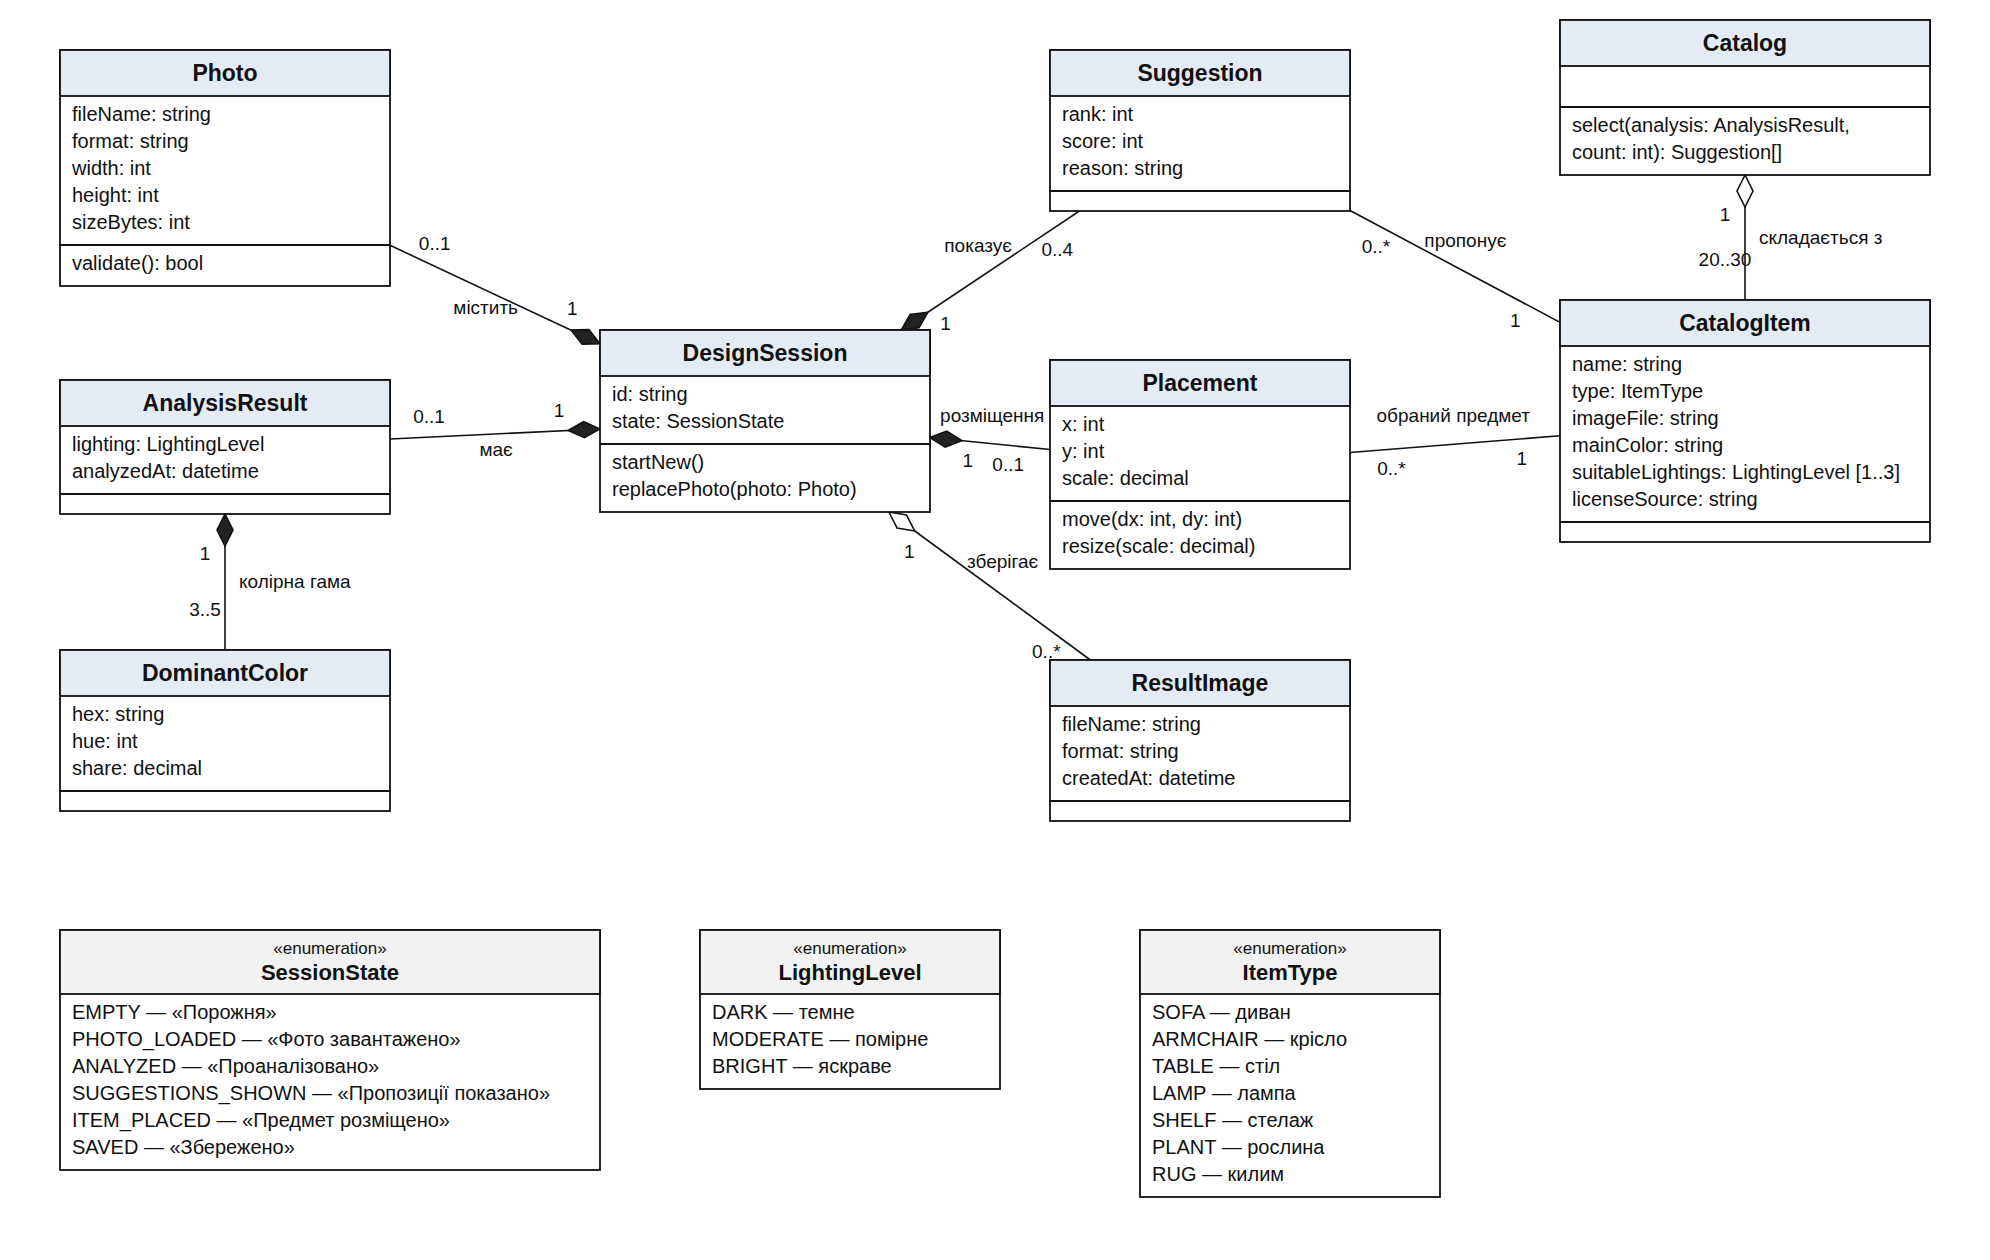
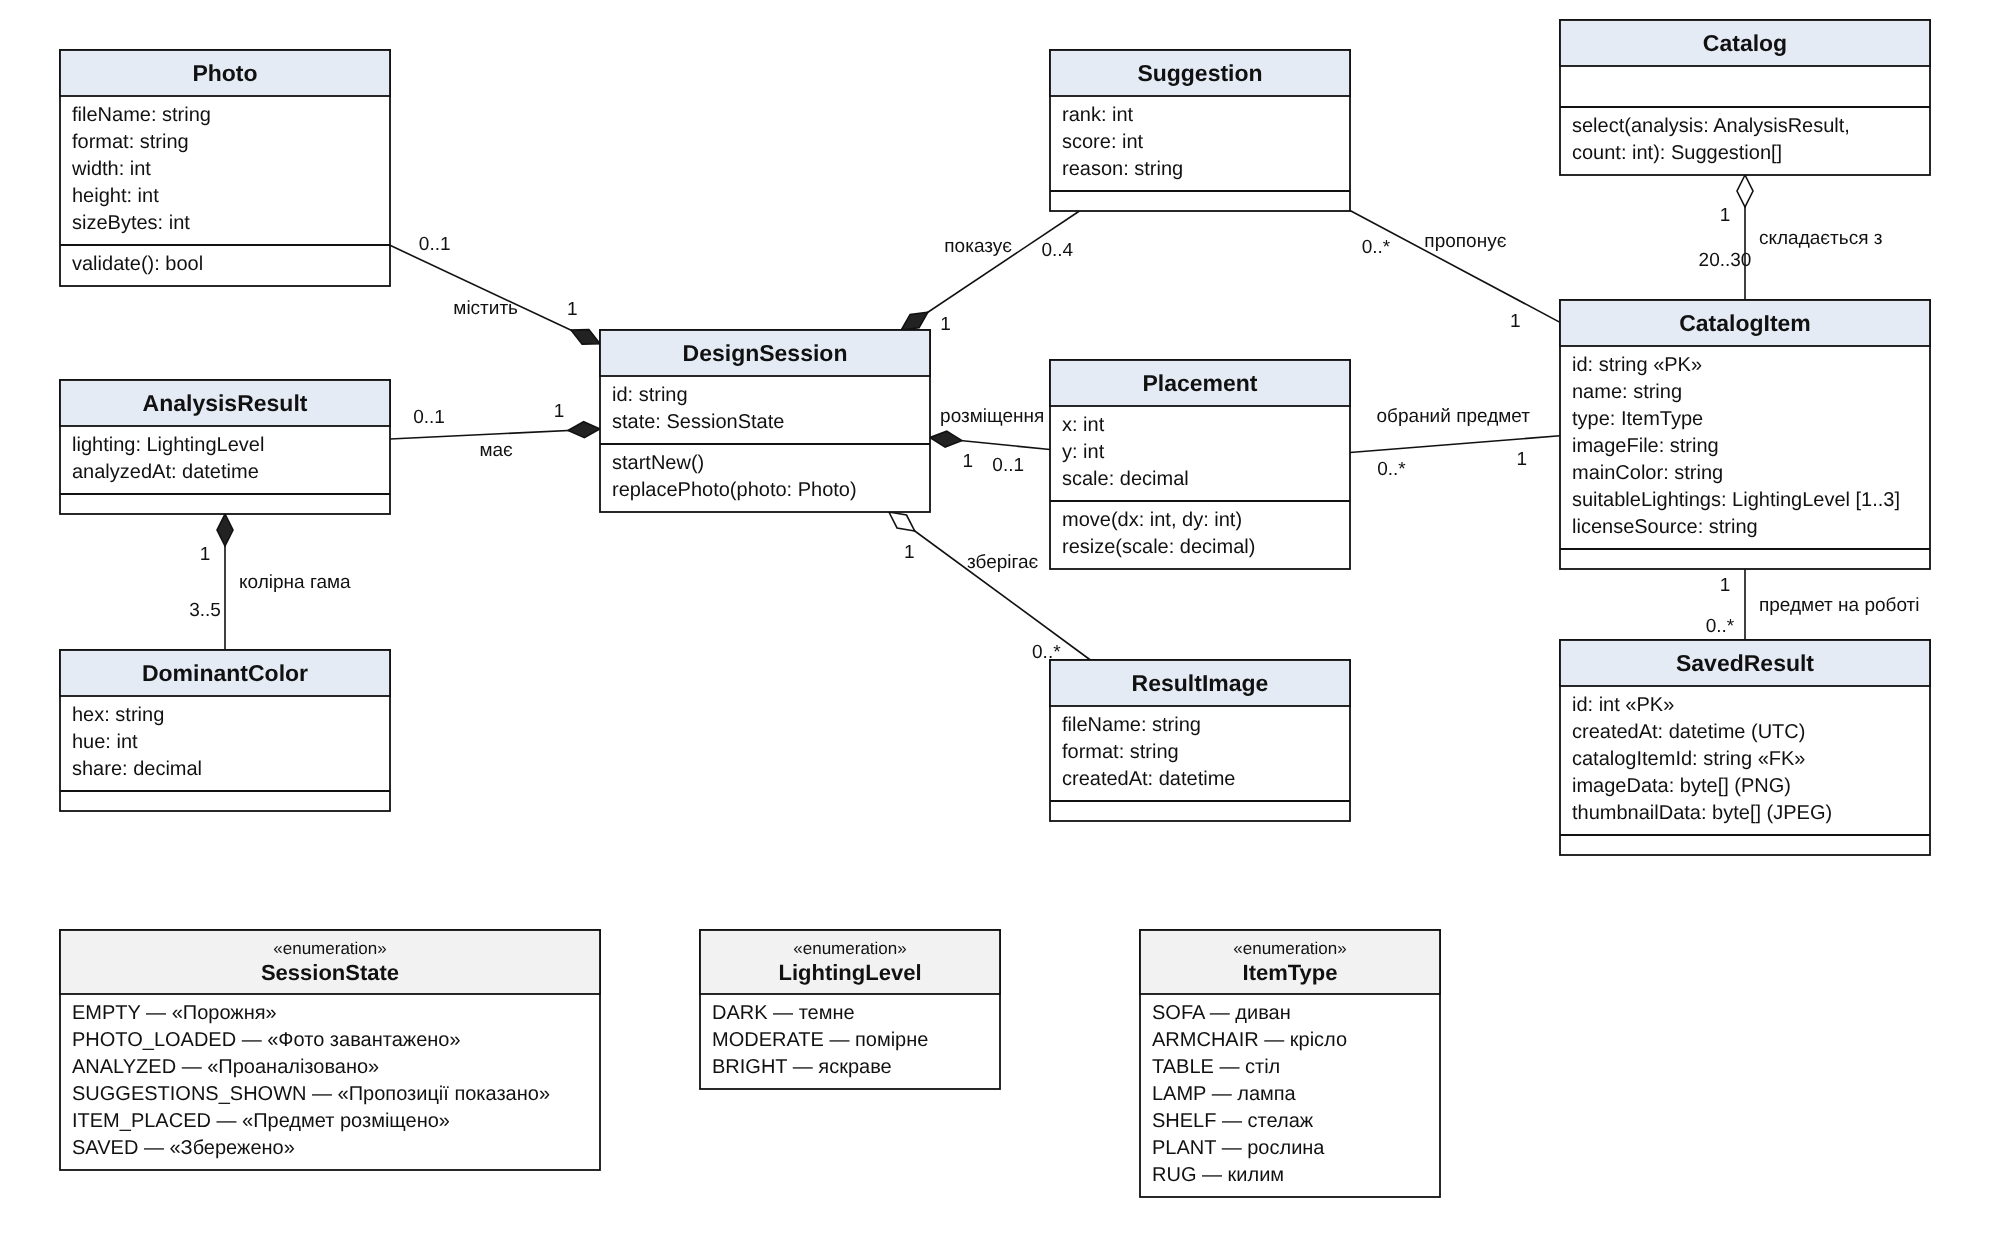
docs(design): class diagram with SavedResult and catalog key

diff --git a/model/class-diagram.md b/model/class-diagram.md
@@ -1,0 +1,132 @@
+# Діаграма класів
+
+**Інженерне питання:** які предметні сутності, атрибути й зв'язки потрібні застосунку і що з них зберігається в БД.
+**Пов'язані вимоги:** FR-01, FR-03…FR-12, NFR-04…NFR-06; v2 (S1): US-1 «Галерея збережених робіт» (#40), #42.
+**Пояснення й зміни:** [docs/design.md](../docs/design.md#2-діаграма-класів). Зображення: `docs/images/class-diagram.png` / `.svg`.
+
+```mermaid
+%%{init: {"fontFamily":"DejaVu Sans","theme":"base","themeVariables":{"fontFamily":"DejaVu Sans","primaryColor":"#e6ecf5","primaryBorderColor":"#333333","primaryTextColor":"#111111","lineColor":"#333333"}}}%%
+classDiagram
+    direction TB
+
+    class Photo {
+        fileName: string
+        format: string
+        width: int
+        height: int
+        sizeBytes: int
+        validate() bool
+    }
+    class DesignSession {
+        id: string
+        state: SessionState
+        startNew()
+        replacePhoto(photo: Photo)
+    }
+    class AnalysisResult {
+        lighting: LightingLevel
+        analyzedAt: datetime
+    }
+    class DominantColor {
+        hex: string
+        hue: int
+        share: decimal
+    }
+    class Suggestion {
+        rank: int
+        score: int
+        reason: string
+    }
+    class Placement {
+        x: int
+        y: int
+        scale: decimal
+        move(dx: int, dy: int)
+        resize(scale: decimal)
+    }
+    class ResultImage {
+        fileName: string
+        format: string
+        createdAt: datetime
+    }
+    class Catalog {
+        select(analysis: AnalysisResult, count: int) Suggestion[]
+    }
+    class CatalogItem {
+        id: string «PK»
+        name: string
+        type: ItemType
+        imageFile: string
+        mainColor: string
+        suitableLightings: LightingLevel [1..3]
+        licenseSource: string
+    }
+    class SavedResult {
+        id: int «PK»
+        createdAt: datetime (UTC)
+        catalogItemId: string «FK»
+        imageData: byte[] (PNG)
+        thumbnailData: byte[] (JPEG)
+    }
+
+    class SessionState {
+        <<enumeration>>
+        EMPTY
+        PHOTO_LOADED
+        ANALYZED
+        SUGGESTIONS_SHOWN
+        ITEM_PLACED
+        SAVED
+    }
+    class LightingLevel {
+        <<enumeration>>
+        DARK
+        MODERATE
+        BRIGHT
+    }
+    class ItemType {
+        <<enumeration>>
+        SOFA
+        ARMCHAIR
+        TABLE
+        LAMP
+        SHELF
+        PLANT
+        RUG
+    }
+
+    DesignSession "1" *-- "0..1" Photo : містить
+    DesignSession "1" *-- "0..1" AnalysisResult : має
+    AnalysisResult "1" *-- "3..5" DominantColor : колірна гама
+    DesignSession "1" *-- "0..4" Suggestion : показує
+    DesignSession "1" *-- "0..1" Placement : розміщення
+    DesignSession "1" o-- "0..*" ResultImage : зберігає
+    Catalog "1" o-- "20..30" CatalogItem : складається з
+    Suggestion "0..*" --> "1" CatalogItem : пропонує
+    Placement "0..*" --> "1" CatalogItem : обраний предмет
+    SavedResult "0..*" --> "1" CatalogItem : предмет на роботі
+    DesignSession ..> SessionState
+    AnalysisResult ..> LightingLevel
+    CatalogItem ..> ItemType
+```
+
+## Позначення
+
+- `*--` — композиція (частина не існує без цілого), `o--` — агрегація, `-->` — асоціація з напрямком, `..>` — залежність (клас використовує перелічення).
+- Числа на кінцях зв'язків — кратності, як у вимогах: `3..5` кольорів (FR-03), `0..4` пропозиції (FR-06), `20..30` позицій каталогу (FR-12).
+- `«PK»` — первинний ключ, `«FK»` — зовнішній ключ таблиці БД.
+
+## Відповідність таблицям БД (S1)
+
+| Клас | Таблиця | Ключ | Примітка |
+|---|---|---|---|
+| `CatalogItem` | `CatalogItems` | `Id` (рядок, напр. `sofa-01`) | заповнюється з `catalog.json` (`CatalogSeeder`) |
+| `SavedResult` | `SavedResults` | `Id` (ціле, генерує БД) | `CatalogItemId` → `CatalogItems.Id`, видалення предмета — `Restrict` |
+
+Решта класів у БД не зберігається: вони живуть у межах сесії користувача (NFR-04).
+
+## Як оновити зображення
+
+Блок `mermaid` вище — текстове джерело моделі (GitHub показує його як діаграму). Зображення для звіту `docs/images/class-diagram.svg` / `.png` намальоване в стилі діаграм v1 (ручне розташування класів): у SVG кожен клас — прямокутник із заголовком і рядками атрибутів, зв'язок — лінія з підписами кратностей.
+
+Під час зміни моделі оновлюємо обидва: атрибути й зв'язки — у блоці `mermaid`, той самий клас або рядок — у `class-diagram.svg` (текстовий файл, редагується як XML); PNG — експорт SVG у браузері (1990×1260).

diff --git a/docs/design.md b/docs/design.md
@@ -13,10 +13,12 @@
 ## 2. Діаграма класів
 
 **Інженерне питання:** які предметні сутності, атрибути й зв'язки потрібні для v1.0.
-**Що видно:** сесія користувача (`DesignSession`) складається з фото, результату аналізу (3–5 домінантних кольорів і рівень освітленості), 3–4 пропозицій та розміщення предмета. Каталог складається з 20–30 позицій; пропозиція й розміщення посилаються на позицію каталогу. Технічні класи (контролери, DTO) не моделюються.
+**Що видно:** сесія користувача (`DesignSession`) складається з фото, результату аналізу (3–5 домінантних кольорів і рівень освітленості), 3–4 пропозицій та розміщення предмета. Каталог складається з 20–30 позицій; пропозиція й розміщення посилаються на позицію каталогу. Технічні класи (контролери, DTO, `AppDbContext`) не моделюються.
 **Вимоги:** FR-01, FR-03…FR-12, NFR-04, NFR-05, NFR-06.
 
-![Діаграма класів v1.0](images/class-diagram.png)
+**Зміни v2 (S1, #42):** додано сутність `SavedResult` — робота, яку користувач явно зберіг у галерею: дата збереження в UTC, зовнішній ключ на `CatalogItem` (кратність `0..*` → `1`), PNG-результат і JPEG-мініатюра. У `CatalogItem` показано ключ `id`: у v1 він був відхиленням реалізації ([implementation.md](implementation.md)), тепер це первинний ключ таблиці `CatalogItems`. Перелічення пов'язано залежністю з класами, що їх використовують. Що з моделі зберігається в БД — [data.md](data.md#3-база-даних-v2-s1). Редаговане джерело — [`model/class-diagram.md`](../model/class-diagram.md).
+
+![Діаграма класів (v1.0 + S1)](images/class-diagram.png)
 
 Кратності відповідають вимогам: `3..5` кольорів (FR-03), `0..4` пропозиції (FR-06), `20..30` позицій каталогу (FR-12).
 

diff --git a/docs/implementation.md b/docs/implementation.md
@@ -45,7 +45,7 @@ Services/DesignService (Scoped — одна сесія на з'єднання Bl
 
 | Що | Чому | Де зафіксовано |
 |----|------|----------------|
-| `CatalogItem.Id` (на діаграмі класів немає) | R4 сортує за id за рівних балів (відтворюваність, AC-06) | [data.md](data.md), розд. 1.2 |
+| `CatalogItem.Id` (на діаграмі класів v1 не було; з S1 — показано як первинний ключ `CatalogItems`) | R4 сортує за id за рівних балів (відтворюваність, AC-06) | [data.md](data.md), розд. 1.2 |
 | Технічні класи (`DesignService`, інтерфейси, `PhotoCanvas`, `CatalogLoader`, `PlacementGeometry`) | діаграма класів свідомо не моделює технічні класи | цей документ, [api.md](api.md) |
 | Розширення A1 в UC-02: однотонне фото → «недостатньо даних» | FR-03 вимагає 3–5 кольорів, а на однотонному фото їх немає | [UC-02 sequence](models/sequences/UC-02-friz.md) |
 | Перевірка A1 до кластеризації (на Activity UC-02 — після) | результат для користувача той самий, але без зайвої роботи на засвіченому фото | там само |

diff --git a/model/README.md b/model/README.md
@@ -1,4 +1,5 @@
 # Модель
 
+- `class-diagram.md` — діаграма класів (Mermaid), з v2 S1 — разом із сутністю БД `SavedResult`.
 - `activity-uc-01.md` … `activity-uc-04.md` — індивідуальні Activity Diagram.
 - Готові зображення — у `../docs/images/`.
